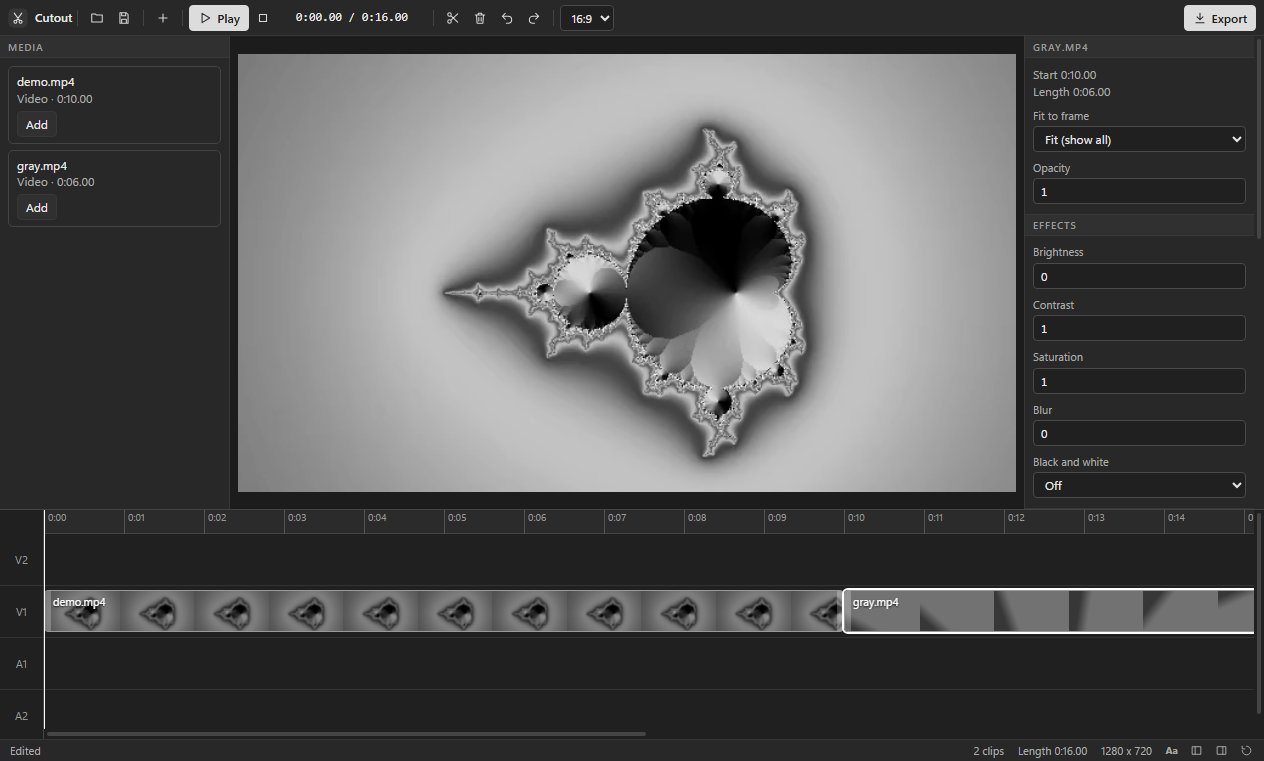
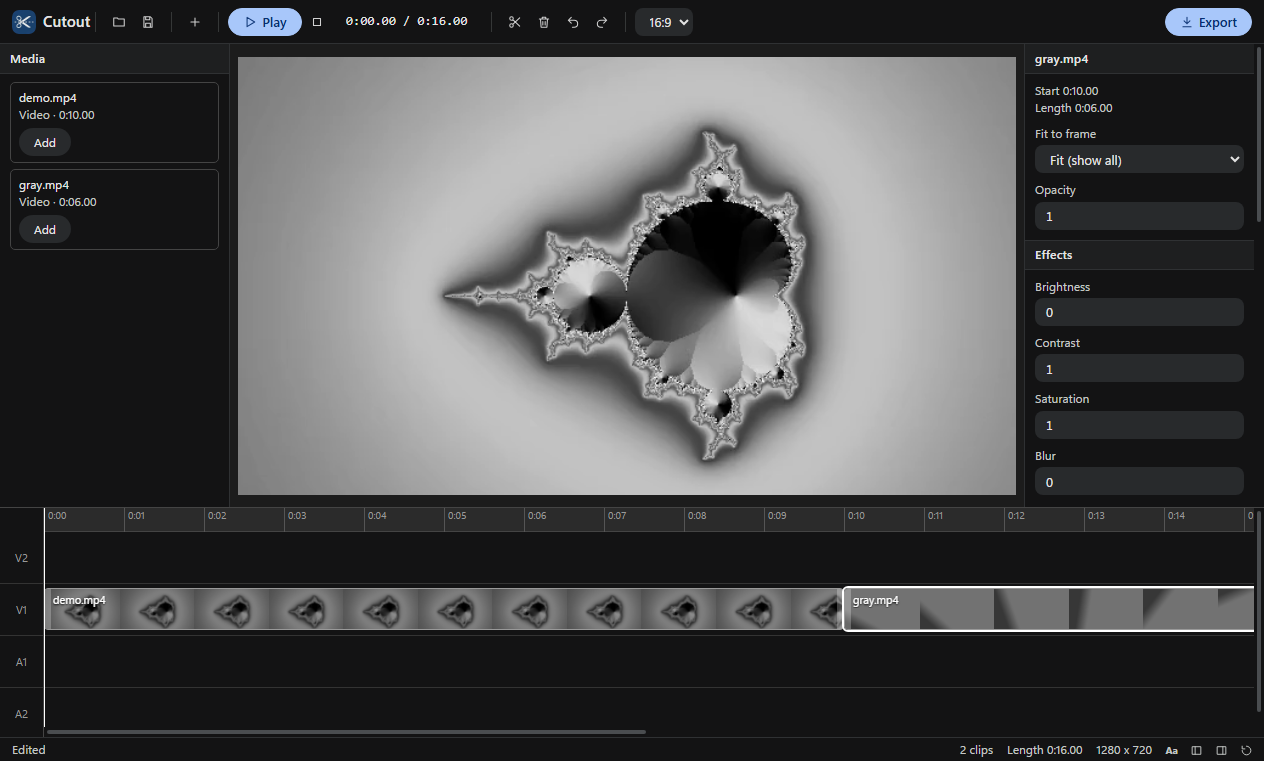
fix: Cutout 1.0.14
New Google-style look: charcoal theme, pill buttons, blue accent, colour app logo. Refreshed README and screenshots.

diff --git a/renderer/lookout.css b/renderer/lookout.css
@@ -1,68 +1,69 @@
-/* Lookout gray UI kit v3: compact pro workspace, flat, no hue. Shared by every Lookout app. */
+/* Lookout UI kit v4: Google-style dark (AI Studio / Colab / Gemini): soft surfaces, pill buttons, blue accent. Shared by every Lookout app. */
 :root{
-  --bg:#202020; --bg-2:#282828; --bg-3:#303030; --bg-4:#3a3a3a; --stage:#181818;
-  --line:#383838; --line-2:#4a4a4a; --line-3:#5c5c5c;
-  --text:#e8e8e8; --text-2:#ababab; --text-3:#9a9a9a;
-  --accent:#dcdcdc; --accent-ink:#1b1b1b; --focus:#a0a0a0;
-  --radius:4px; --h:26px; --pad:8px;
-  --font:"Segoe UI Variable Text","Segoe UI",system-ui,-apple-system,sans-serif; --mono:Consolas,"Cascadia Mono",monospace;
+  --bg:#131314; --bg-2:#1e1f20; --bg-3:#282a2c; --bg-4:#333537; --stage:#0e0e0f;
+  --line:#2f3133; --line-2:#444746; --line-3:#5f6368;
+  --text:#e3e3e3; --text-2:#c4c7c5; --text-3:#9aa0a6;
+  --accent:#a8c7fa; --accent-ink:#062e6f; --accent-2:#0b57d0; --accent-soft:#2b3a55; --focus:#a8c7fa;
+  --radius:8px; --h:28px; --pad:10px;
+  --font:"Google Sans Text","Google Sans",Roboto,"Segoe UI Variable Text","Segoe UI",system-ui,-apple-system,sans-serif; --mono:Consolas,"Cascadia Mono",monospace;
 }
 *{box-sizing:border-box;margin:0;padding:0}
-html,body{height:100%;background:var(--bg);color:var(--text);font:12px/1.4 var(--font);overflow:hidden;user-select:none;-webkit-font-smoothing:antialiased}
+html,body{height:100%;background:var(--bg);color:var(--text);font:13px/1.45 var(--font);overflow:hidden;user-select:none;-webkit-font-smoothing:antialiased}
 button,input,select,textarea{font:inherit;color:inherit}
 .app{display:grid;grid-template-rows:auto 1fr auto;height:100vh}
 
 /* ---------- toolbar ---------- */
-.toolbar{display:flex;align-items:center;gap:1px;padding:4px 8px;min-height:36px;background:var(--bg-2);border-bottom:1px solid var(--line);flex-wrap:nowrap;overflow-x:auto;overflow-y:hidden;scrollbar-width:none}
+.toolbar{display:flex;align-items:center;gap:1px;padding:6px 12px;min-height:44px;background:var(--bg);border-bottom:1px solid var(--line);flex-wrap:nowrap;overflow-x:auto;overflow-y:hidden;scrollbar-width:none}
 .toolbar::-webkit-scrollbar{height:0}
 .toolbar>*{flex-shrink:0}
-.toolbar .sep{width:1px;height:16px;align-self:center;background:var(--line-2);margin:0 5px;opacity:.8}
+.toolbar .sep{width:1px;height:20px;align-self:center;background:var(--line-2);margin:0 8px;opacity:.7}
 .toolbar .grow{flex:1 1 auto;min-width:8px}
 .toolbar input[type=text],.toolbar input[type=search]{width:150px}
-.brand{display:flex;align-items:center;gap:7px;padding-right:2px;margin-right:2px;font-weight:600;font-size:12px;color:var(--text)}
-.brand img{width:20px;height:20px;border-radius:5px;display:block}
+.brand{display:flex;align-items:center;gap:7px;padding-right:2px;margin-right:2px;font-weight:500;font-size:15px;letter-spacing:.1px;color:var(--text)}
+.brand img{width:24px;height:24px;border-radius:7px;display:block}
 .brand+.sep{margin-left:0}
 
 /* ---------- buttons ---------- */
-.btn{display:inline-flex;align-items:center;justify-content:center;gap:5px;height:var(--h);padding:0 8px;background:var(--bg-3);border:1px solid var(--line);border-radius:var(--radius);cursor:pointer;white-space:nowrap;line-height:1;transition:background .08s,border-color .08s}
-.btn:hover{background:var(--bg-4);border-color:var(--line-2)}
-.btn:active{background:#262626}
+.btn{display:inline-flex;align-items:center;justify-content:center;gap:5px;height:var(--h);padding:0 14px;background:var(--bg-3);border:1px solid transparent;border-radius:999px;cursor:pointer;white-space:nowrap;line-height:1;transition:background .08s,border-color .08s}
+.btn:hover{background:var(--bg-4)}
+.btn:active{background:#3c3f41}
 .btn:focus-visible,input:focus-visible,select:focus-visible,textarea:focus-visible,[tabindex]:focus-visible{outline:2px solid var(--focus);outline-offset:1px}
-.btn.primary{background:var(--accent);color:var(--accent-ink);border-color:var(--accent);font-weight:600}
-.btn.primary:hover{background:#ececec;border-color:#ececec}
-.btn.on{background:#4a4a4a;border-color:var(--line-3);box-shadow:inset 0 0 0 1px #6a6a6a}
+.btn.primary{background:var(--accent);color:var(--accent-ink);border-color:var(--accent);font-weight:500}
+.btn.primary:hover{background:#c2d7fb;border-color:#c2d7fb;box-shadow:0 1px 3px rgba(0,0,0,.4)}
+.btn.on{background:var(--accent-soft);color:var(--accent);border-color:transparent}
 .btn[disabled]{opacity:.45;pointer-events:none}
-.btn.icon{padding:0;width:var(--h);min-width:var(--h)}
+.btn.icon{padding:0;width:var(--h);min-width:var(--h);border-radius:50%}
 .btn .ic{width:14px;height:14px;flex-shrink:0;display:block;opacity:.92}
 .toolbar .btn:not(.primary):not(.on){background:transparent;border-color:transparent}
-.toolbar .btn:not(.primary):not(.on):hover{background:var(--bg-4);border-color:var(--line-2)}
+.toolbar .btn:not(.primary):not(.on):hover{background:var(--bg-3);border-color:transparent}
 
 /* icon-only toolbar: names live in the tooltip (Aa in the status bar brings the labels back) */
-.toolbar:not(.lbl) .btn:not(.primary):has(> svg.ic),.toolbar.c3 .btn:has(> svg.ic){font-size:0;gap:0;width:var(--h);padding:0}
+.toolbar:not(.lbl) .btn:not(.primary):has(> svg.ic),.toolbar.c3 .btn:has(> svg.ic){font-size:0;gap:0;width:var(--h);padding:0;border-radius:50%}
 .toolbar.c2 .brand span{display:none}
 .toolbar.c2 input[type=text],.toolbar.c2 input[type=search]{width:110px}
 .toolbar.lbl.c1 .btn.minor:not(.primary):has(> svg.ic),.toolbar.lbl.c2 .btn:not(.primary):has(> svg.ic){font-size:0;gap:0;width:var(--h);padding:0}
 
 /* ---------- fields ---------- */
-input[type=text],input[type=number],input[type=search],input[type=date],select,textarea{background:var(--bg);border:1px solid var(--line-2);border-radius:var(--radius);padding:0 7px;height:var(--h);user-select:text;min-width:0;font-size:12px}
+input[type=text],input[type=number],input[type=search],input[type=date],select,textarea{background:var(--bg-3);border:1px solid transparent;border-radius:var(--radius);padding:0 10px;height:var(--h);user-select:text;min-width:0;font-size:13px}
 input[type=number],.frow>input,.field>input{font-variant-numeric:tabular-nums}
 textarea{height:auto;padding:5px 7px;resize:vertical;line-height:1.4}
 select{padding-right:4px;cursor:pointer}
-input:hover,select:hover,textarea:hover{border-color:var(--line-3)}
-input[type=range]{accent-color:#c8c8c8;height:var(--h)}
-input[type=checkbox]{accent-color:#c8c8c8;width:14px;height:14px;cursor:pointer}
-input[type=color]{border:1px solid var(--line-2);background:var(--bg);width:26px;height:var(--h);padding:2px;border-radius:var(--radius)}
-label.field{display:flex;flex-direction:column;gap:3px;color:var(--text-2);font-size:11px}
-label.field>input,label.field>select,label.field>textarea{width:100%;color:var(--text);font-size:12px}
+input:hover,select:hover,textarea:hover{background:var(--bg-4)}
+input[type=text]:focus,input[type=number]:focus,input[type=search]:focus,input[type=date]:focus,select:focus,textarea:focus{outline:none;border-color:var(--accent);background:var(--bg-2)}
+input[type=range]{accent-color:#a8c7fa;height:var(--h)}
+input[type=checkbox]{accent-color:#a8c7fa;width:14px;height:14px;cursor:pointer}
+input[type=color]{border:1px solid var(--line-2);background:var(--bg-3);width:26px;height:var(--h);padding:2px;border-radius:var(--radius)}
+label.field{display:flex;flex-direction:column;gap:3px;color:var(--text-2);font-size:12px}
+label.field>input,label.field>select,label.field>textarea{width:100%;color:var(--text);font-size:13px}
 
 /* ---------- layout ---------- */
 .main{display:flex;min-height:0;min-width:0}
-.sidebar{width:210px;background:var(--bg-2);border-right:1px solid var(--line);overflow:auto;padding:var(--pad);flex-shrink:0;min-width:0}
+.sidebar{width:210px;background:var(--bg);border-right:1px solid var(--line);overflow:auto;padding:var(--pad);flex-shrink:0;min-width:0}
 .sidebar.right{border-right:0;border-left:1px solid var(--line);width:250px}
 .sidebar.collapsed{display:none!important}
-.sidebar h3,.panel-title{font-size:10px;text-transform:uppercase;letter-spacing:.09em;color:var(--text-3);font-weight:600}
+.sidebar h3,.panel-title{font-size:12px;letter-spacing:.2px;color:var(--text-2);font-weight:500}
 .sidebar h3{margin:12px 0 6px}
-.sidebar>h3{display:flex;align-items:center;gap:6px;height:22px;margin:10px calc(var(--pad) * -1) 8px;padding:0 var(--pad);background:var(--bg-3);border-top:1px solid var(--line);border-bottom:1px solid var(--line)}
+.sidebar>h3{display:flex;align-items:center;gap:6px;height:30px;margin:10px calc(var(--pad) * -1) 8px;padding:0 var(--pad);background:var(--bg-2);border-top:1px solid var(--line);border-bottom:1px solid var(--line);color:var(--text)}
 .sidebar>h3:first-child{margin-top:calc(var(--pad) * -1);border-top:0}
 .panel-title{margin:12px 0 6px}
 .sidebar input[type=text],.sidebar input[type=search],.sidebar select,.sidebar textarea{width:100%}
@@ -73,20 +74,20 @@ label.field>input,label.field>select,label.field>textarea{width:100%;color:var(-
 .sidebar .btn{width:auto}
 .sidebar>.btn{width:100%;margin-bottom:5px}
 .stage{flex:1;min-width:0;min-height:0;position:relative;background:var(--stage);overflow:auto}
-.status{display:flex;gap:14px;align-items:center;height:22px;padding:0 10px;background:var(--bg-2);border-top:1px solid var(--line);color:var(--text-2);font-size:11px;white-space:nowrap;overflow:hidden}
+.status{display:flex;gap:14px;align-items:center;height:24px;padding:0 12px;background:var(--bg);border-top:1px solid var(--line);color:var(--text-2);font-size:12px;white-space:nowrap;overflow:hidden}
 .status .grow{flex:1}
 body.hasdock .status{padding-right:112px}
-.wbs{position:fixed;right:6px;bottom:2px;height:18px;display:flex;gap:2px;z-index:8;background:var(--bg-2);padding-left:6px}
+.wbs{position:fixed;right:6px;bottom:2px;height:18px;display:flex;gap:2px;z-index:8;background:var(--bg);padding-left:6px}
 .wbs[hidden]{display:none}
-.wbs .wb{height:18px;min-width:22px;padding:0 4px;display:inline-flex;align-items:center;justify-content:center;font-size:10px;font-weight:700;line-height:1;background:transparent;border:1px solid transparent;border-radius:3px;color:var(--text-2);cursor:pointer}
+.wbs .wb{height:18px;min-width:22px;padding:0 4px;display:inline-flex;align-items:center;justify-content:center;font-size:10px;font-weight:700;line-height:1;background:transparent;border:1px solid transparent;border-radius:6px;color:var(--text-2);cursor:pointer}
 .wbs .wb[hidden]{display:none}
 .wbs .wb svg{width:13px;height:13px;display:block}
-.wbs .wb:hover{background:var(--bg-4);border-color:var(--line-2);color:var(--text)}
-.wbs .wb.on{background:var(--bg-4);border-color:var(--line-3);color:var(--text)}
+.wbs .wb:hover{background:var(--bg-3);color:var(--text)}
+.wbs .wb.on{background:var(--accent-soft);color:var(--accent)}
 .list{display:flex;flex-direction:column;gap:1px}
-.list .item{padding:3px 6px;border-radius:var(--radius);cursor:pointer;border:1px solid transparent;display:flex;gap:6px;align-items:center;min-height:26px}
+.list .item{padding:3px 10px;border-radius:999px;cursor:pointer;border:1px solid transparent;display:flex;gap:6px;align-items:center;min-height:26px}
 .list .item:hover{background:var(--bg-3)}
-.list .item.sel{background:var(--bg-4);border-color:var(--line-2)}
+.list .item.sel{background:var(--accent-soft);color:var(--accent);border-color:transparent}
 .row{display:flex;gap:5px;align-items:center}
 .grow{flex:1 1 auto;min-width:0}
 .brow{display:grid;grid-template-columns:1fr 1fr;gap:5px;margin-bottom:5px}
@@ -99,17 +100,17 @@ body.hasdock .status{padding-right:112px}
 .sidebar .swatches{margin-bottom:8px}
 .list .item .btn{height:22px!important;width:24px!important;padding:0!important;font-size:0!important;gap:0;background:transparent;border-color:transparent;opacity:.55}
 .list .item:hover .btn,.list .item.sel .btn{opacity:1}
-.list .item .btn:hover{background:var(--bg-4);border-color:var(--line-2)}
+.list .item .btn:hover{background:var(--bg-4)}
 .col{display:flex;flex-direction:column;gap:5px}
 .muted{color:var(--text-2)}
 .empty{position:absolute;inset:0;display:flex;flex-direction:column;align-items:center;justify-content:center;gap:10px;color:var(--text-3);text-align:center;padding:24px}
-.empty .big{font-size:16px;color:var(--text-2);font-weight:600}
+.empty .big{font-size:20px;color:var(--text);font-weight:400}
 
 /* panel grip: drag to resize, double-click to collapse or restore */
 .grip{position:relative;flex:0 0 5px;width:5px;margin:0 -3px 0 -2px;z-index:6;cursor:col-resize;touch-action:none}
 .grip::after{content:"";position:absolute;top:0;bottom:0;left:2px;width:1px;background:transparent;transition:background .1s}
-.grip:hover::after,.grip.drag::after{background:var(--line-3);width:2px;left:1px}
-.grip.collapsed{flex:0 0 8px;width:8px;margin:0;background:var(--bg-2);border-left:1px solid var(--line);border-right:1px solid var(--line)}
+.grip:hover::after,.grip.drag::after{background:var(--accent);width:2px;left:1px}
+.grip.collapsed{flex:0 0 8px;width:8px;margin:0;background:var(--bg);border-left:1px solid var(--line);border-right:1px solid var(--line)}
 .grip.collapsed::after{left:3px;top:calc(50% - 14px);bottom:auto;height:28px;width:2px;background:var(--line-3);border-radius:2px}
 .grip.collapsed:hover{background:var(--bg-3)}
 body.gripping{cursor:col-resize}
@@ -117,30 +118,30 @@ body.gripping *{cursor:col-resize!important;user-select:none!important}
 
 /* ---------- overlays ---------- */
 .modal-back{position:fixed;inset:0;background:rgba(0,0,0,.6);display:flex;align-items:center;justify-content:center;z-index:50}
-.modal{background:var(--bg-2);border:1px solid var(--line-2);border-radius:8px;min-width:340px;max-width:80vw;max-height:85vh;overflow:auto;padding:16px;display:flex;flex-direction:column;gap:12px;box-shadow:0 18px 50px rgba(0,0,0,.5)}
-.modal h2{font-size:14px;font-weight:600}
-.toast{position:fixed;left:50%;bottom:34px;transform:translateX(-50%);background:var(--bg-4);border:1px solid var(--line-3);padding:7px 14px;border-radius:6px;z-index:60;box-shadow:0 8px 24px rgba(0,0,0,.4)}
-.progress{height:5px;background:var(--bg);border:1px solid var(--line);border-radius:4px;overflow:hidden}
+.modal{background:var(--bg-2);border:0;border-radius:24px;min-width:360px;max-width:80vw;max-height:85vh;overflow:auto;padding:24px;display:flex;flex-direction:column;gap:14px;box-shadow:0 8px 32px rgba(0,0,0,.6)}
+.modal h2{font-size:20px;font-weight:400}
+.toast{position:fixed;left:50%;bottom:34px;transform:translateX(-50%);background:#e3e3e3;color:#1f1f1f;border:0;padding:10px 18px;border-radius:8px;z-index:60;box-shadow:0 8px 24px rgba(0,0,0,.4)}
+.progress{height:6px;background:var(--bg-3);border:0;border-radius:999px;overflow:hidden}
 .progress>i,.progress>div{display:block;height:100%;background:var(--accent);width:0}
 
 /* ---------- tables ---------- */
 table.grid{border-collapse:separate;border-spacing:0;width:100%}
 table.grid th,table.grid td{border-bottom:1px solid var(--line);padding:0 10px;height:30px;text-align:left;vertical-align:middle}
-table.grid th{background:var(--bg-2);color:var(--text-2);font-weight:600;font-size:11px;position:sticky;top:0;z-index:1;height:26px}
-table.grid tbody tr:hover td{background:#242424}
-table.grid tr.sel td{background:#323232}
+table.grid th{background:var(--bg-2);color:var(--text-2);font-weight:500;font-size:12px;position:sticky;top:0;z-index:1;height:26px}
+table.grid tbody tr:hover td{background:var(--bg-2)}
+table.grid tr.sel td{background:var(--accent-soft)}
 table.grid tbody tr{cursor:default}
 table.grid td .btn{height:22px;margin-left:6px;vertical-align:middle}
 table.grid td{white-space:nowrap}
 
 /* ---------- misc ---------- */
 ::-webkit-scrollbar{width:10px;height:10px}
-::-webkit-scrollbar-thumb{background:#454545;border:3px solid transparent;background-clip:padding-box;border-radius:8px}
-::-webkit-scrollbar-thumb:hover{background:#5a5a5a;background-clip:padding-box;border:3px solid transparent}
+::-webkit-scrollbar-thumb{background:#4a4d50;border:3px solid transparent;background-clip:padding-box;border-radius:8px}
+::-webkit-scrollbar-thumb:hover{background:#6b6f73;background-clip:padding-box;border:3px solid transparent}
 ::-webkit-scrollbar-track,::-webkit-scrollbar-corner{background:transparent}
 .swatches{display:flex;flex-wrap:wrap;gap:5px}
-.swatches button{width:20px;height:20px;border:1px solid var(--line-3);border-radius:4px;cursor:pointer;padding:0}
+.swatches button{width:22px;height:22px;border:1px solid var(--line-3);border-radius:50%;cursor:pointer;padding:0}
 .swatches button.on{outline:2px solid var(--accent);outline-offset:2px}
-kbd{font-family:var(--mono);font-size:10px;background:var(--bg-3);border:1px solid var(--line-2);border-bottom-width:2px;border-radius:3px;padding:0 4px}
+kbd{font-family:var(--mono);font-size:10px;background:var(--bg-3);border:1px solid var(--line-2);border-bottom-width:2px;border-radius:4px;padding:0 5px}
 
 input::placeholder,textarea::placeholder{color:var(--text-3);opacity:1}

diff --git a/README.md b/README.md
@@ -1,8 +1,10 @@
-<p align="center"><img src="screenshots/banner.png" alt="Cutout" width="100%"></p>
+<p align="center"><img src="screenshots/logo.png" alt="Cutout" width="128"></p>
 
-<p align="center"><b>Video editing on a timeline</b><br>Version 1.0.3 for Windows · Free · Offline · No account</p>
+<h1 align="center">Cutout</h1>
 
-<p align="center"><a href="https://github.com/plawanpawin-byte/cutout/releases/latest"><b>Download Cutout</b></a> · <a href="https://github.com/plawanpawin-byte/Lookout">All Lookout apps</a></p>
+<p align="center"><b>Video editing on a timeline</b><br>Version 1.0.14 for Windows · Free · Offline · No account</p>
+
+<p align="center"><a href="https://github.com/plawanpawin-byte/cutout/releases/latest"><b>Download Cutout</b></a> · <a href="https://github.com/plawanpawin-byte/lookout-launcher">Lookout launcher</a> · <a href="https://github.com/plawanpawin-byte/Lookout">All Lookout apps</a></p>
 
 ---
 
@@ -12,11 +14,51 @@ Cutout is a video editor with a multi-track timeline. Import clips, place them i
 
 ![Cutout](screenshots/01-timeline.png)
 
-**On this page:** [Screenshots](#see-it-in-action) · [Interface](#the-interface) · [Features](#everything-it-can-do) · [How to use it](#how-to-use-it) · [Shortcuts](#keyboard-shortcuts) · [Formats](#files-and-formats) · [Privacy](#private-by-design) · [Install](#install) · [Questions](#questions)
+**On this page:** [In plain words](#in-plain-words) · [Who it is for](#who-it-is-for) · [Try it in 3 steps](#try-it-in-3-steps) · [Screenshots](#see-it-in-action) · [Features](#everything-it-can-do) · [How to use it](#how-to-use-it) · [Privacy](#private-by-design) · [Install](#install) · [Questions](#questions)
 
-## What is new in 1.0.3
+## In plain words
 
-A refreshed interface: every toolbar button now has a clear line icon, the app's mark sits at the top left, controls share one height and spacing, panels line up in tidy grids, and the toolbar keeps every button reachable on smaller windows by switching less important buttons to icons.
+Cutout is a **video editor**. You bring in video clips, photos and music, place them one after another on a **timeline** (a strip that represents time, with rows called tracks), and cut them to the length you want. You can split a clip in two, delete the part you do not want, add titles, fade in and out, change the volume or speed of each clip, and play the result before you save.
+
+When you are done, **Export** writes a finished video file. Cutout includes its own copy of the video tool FFmpeg, so there is nothing else to install.
+
+**Not for:** Cutout is for straightforward editing. It is not a professional colour-grading or special-effects studio.
+
+## Who it is for
+
+- **Families** trimming holiday clips into one short film.
+- **Creators** making short videos with titles and music.
+- **Teachers** cutting a lesson recording down to the useful part.
+
+## Try it in 3 steps
+
+1. Click **Open** and add two clips from the media list on the left.
+2. Move the playhead and press the scissors to split a clip, then delete the bit you do not need.
+3. Press **Export** and choose the quality.
+
+## What is new in 1.0.14
+
+A new look inspired by Google's own tools (AI Studio, Colab, Gemini): a calm dark charcoal theme, rounded pill buttons, a soft blue accent and roomier spacing. The app icon is now a colour logo so you can find Cutout at a glance in the Start menu and in the Lookout launcher. All screenshots below were taken again with the new look.
+
+## In plain words
+
+Cutout is a **video editor**. You bring in video clips, photos and music, place them one after another on a **timeline** (a strip that represents time, with rows called tracks), and cut them to the length you want. You can split a clip in two, delete the part you do not want, add titles, fade in and out, change the volume or speed of each clip, and play the result before you save.
+
+When you are done, **Export** writes a finished video file. Cutout includes its own copy of the video tool FFmpeg, so there is nothing else to install.
+
+**Not for:** Cutout is for straightforward editing. It is not a professional colour-grading or special-effects studio.
+
+## Who it is for
+
+- **Families** trimming holiday clips into one short film.
+- **Creators** making short videos with titles and music.
+- **Teachers** cutting a lesson recording down to the useful part.
+
+## Try it in 3 steps
+
+1. Click **Open** and add two clips from the media list on the left.
+2. Move the playhead and press the scissors to split a clip, then delete the bit you do not need.
+3. Press **Export** and choose the quality.
 
 ## See it in action
 
@@ -120,7 +162,7 @@ Imports common video, audio and image files. Exports MP4, WebM and GIF. Projects
 
 ## Install
 
-1. Open the [latest release](https://github.com/plawanpawin-byte/cutout/releases/latest) and download the file named **Cutout-Setup-** followed by the version number and **.exe**. You can also install it from the [Lookout launcher](https://github.com/${OWNER}/lookout-launcher), which keeps it up to date.
+1. Open the [latest release](https://github.com/plawanpawin-byte/cutout/releases/latest) and download the file named **Cutout-Setup-** followed by the version number and **.exe**. You can also install it from the [Lookout launcher](https://github.com/plawanpawin-byte/lookout-launcher), which keeps it up to date.
 2. Run the installer. It installs just for you, so it does not ask for administrator rights.
 3. Windows may show a blue **Windows protected your PC** screen because these installers are not signed with a paid certificate. Click **More info**, then **Run anyway**.
 4. Open Cutout from the Start menu.
@@ -135,18 +177,40 @@ Editing is instant. Export speed depends on your processor because encoding happ
 **Does it add a watermark?**  
 Never.
 
+**Does it change my original clips?**  
+No. Your files are only read; the edit lives in the project and the export is a new file.
+
+**What if the export is slow?**  
+Long or high-resolution videos take time because the computer has to re-encode them. Use a smaller size to speed it up.
+
+**Can I save my work and come back?**  
+Yes. Save the project and open it again later.
+
+**Does it change my original clips?**  
+No. Your files are only read; the edit lives in the project and the export is a new file.
+
+**What if the export is slow?**  
+Long or high-resolution videos take time because the computer has to re-encode them. Use a smaller size to speed it up.
+
+**Can I save my work and come back?**  
+Yes. Save the project and open it again later.
+
 ## About Lookout
 
-Cutout belongs to the **[Lookout](https://github.com/plawanpawin-byte/Lookout)** family: ten small, private Windows apps for documents and media, all with the same calm grey look and the same promise that your files stay yours. Install and update them together with the [Lookout launcher](https://github.com/plawanpawin-byte/lookout-launcher).
+Cutout is part of **[Lookout](https://github.com/plawanpawin-byte/Lookout)**: ten small, private Windows apps for documents and media that share one look and one promise, that your files stay on your computer. Install and update them together with the [Lookout launcher](https://github.com/plawanpawin-byte/lookout-launcher).
 
-- **[Pageout](https://github.com/plawanpawin-byte/pageout)**: read, annotate and sign pdfs
-- **[Chartout](https://github.com/plawanpawin-byte/chartout)**: flowcharts and diagrams
-- **[Branchout](https://github.com/plawanpawin-byte/branchout)**: mind maps and outlines
-- **[Planout](https://github.com/plawanpawin-byte/planout)**: plans and gantt timelines
-- **[Frameout](https://github.com/plawanpawin-byte/frameout)**: screen design and prototypes
-- **[Shiftout](https://github.com/plawanpawin-byte/shiftout)**: convert and compress media
-- **[Castout](https://github.com/plawanpawin-byte/castout)**: record your screen
-- **[Mendout](https://github.com/plawanpawin-byte/mendout)**: repair damaged media
-- **[Tuneout](https://github.com/plawanpawin-byte/tuneout)**: record and edit audio
+| | App | What it is for | Code |
+| --- | --- | --- | --- |
+| <img src="https://raw.githubusercontent.com/plawanpawin-byte/lookout-launcher/main/build/icon.png" width="32" alt="Lookout"> | **Lookout** | Install, open and update all the apps below | [GitHub](https://github.com/plawanpawin-byte/lookout-launcher) |
+| <img src="https://raw.githubusercontent.com/plawanpawin-byte/pageout/main/build/icon.png" width="32" alt="Pageout"> | **Pageout** | Read, annotate and sign PDFs | [GitHub](https://github.com/plawanpawin-byte/pageout) |
+| <img src="https://raw.githubusercontent.com/plawanpawin-byte/chartout/main/build/icon.png" width="32" alt="Chartout"> | **Chartout** | Flowcharts, org charts and diagrams | [GitHub](https://github.com/plawanpawin-byte/chartout) |
+| <img src="https://raw.githubusercontent.com/plawanpawin-byte/branchout/main/build/icon.png" width="32" alt="Branchout"> | **Branchout** | Mind maps and outlines | [GitHub](https://github.com/plawanpawin-byte/branchout) |
+| <img src="https://raw.githubusercontent.com/plawanpawin-byte/planout/main/build/icon.png" width="32" alt="Planout"> | **Planout** | Project plans and Gantt timelines | [GitHub](https://github.com/plawanpawin-byte/planout) |
+| <img src="https://raw.githubusercontent.com/plawanpawin-byte/frameout/main/build/icon.png" width="32" alt="Frameout"> | **Frameout** | App and web screen design with click-through prototypes | [GitHub](https://github.com/plawanpawin-byte/frameout) |
+| <img src="https://raw.githubusercontent.com/plawanpawin-byte/cutout/main/build/icon.png" width="32" alt="Cutout"> | **Cutout** | Video editing on a timeline | [GitHub](https://github.com/plawanpawin-byte/cutout) |
+| <img src="https://raw.githubusercontent.com/plawanpawin-byte/shiftout/main/build/icon.png" width="32" alt="Shiftout"> | **Shiftout** | Convert and compress video and audio, make GIFs | [GitHub](https://github.com/plawanpawin-byte/shiftout) |
+| <img src="https://raw.githubusercontent.com/plawanpawin-byte/castout/main/build/icon.png" width="32" alt="Castout"> | **Castout** | Record your screen | [GitHub](https://github.com/plawanpawin-byte/castout) |
+| <img src="https://raw.githubusercontent.com/plawanpawin-byte/mendout/main/build/icon.png" width="32" alt="Mendout"> | **Mendout** | Check and repair damaged video, audio, pictures and PDFs | [GitHub](https://github.com/plawanpawin-byte/mendout) |
+| <img src="https://raw.githubusercontent.com/plawanpawin-byte/tuneout/main/build/icon.png" width="32" alt="Tuneout"> | **Tuneout** | Record and edit audio | [GitHub](https://github.com/plawanpawin-byte/tuneout) |
 
 Released under the MIT License.
